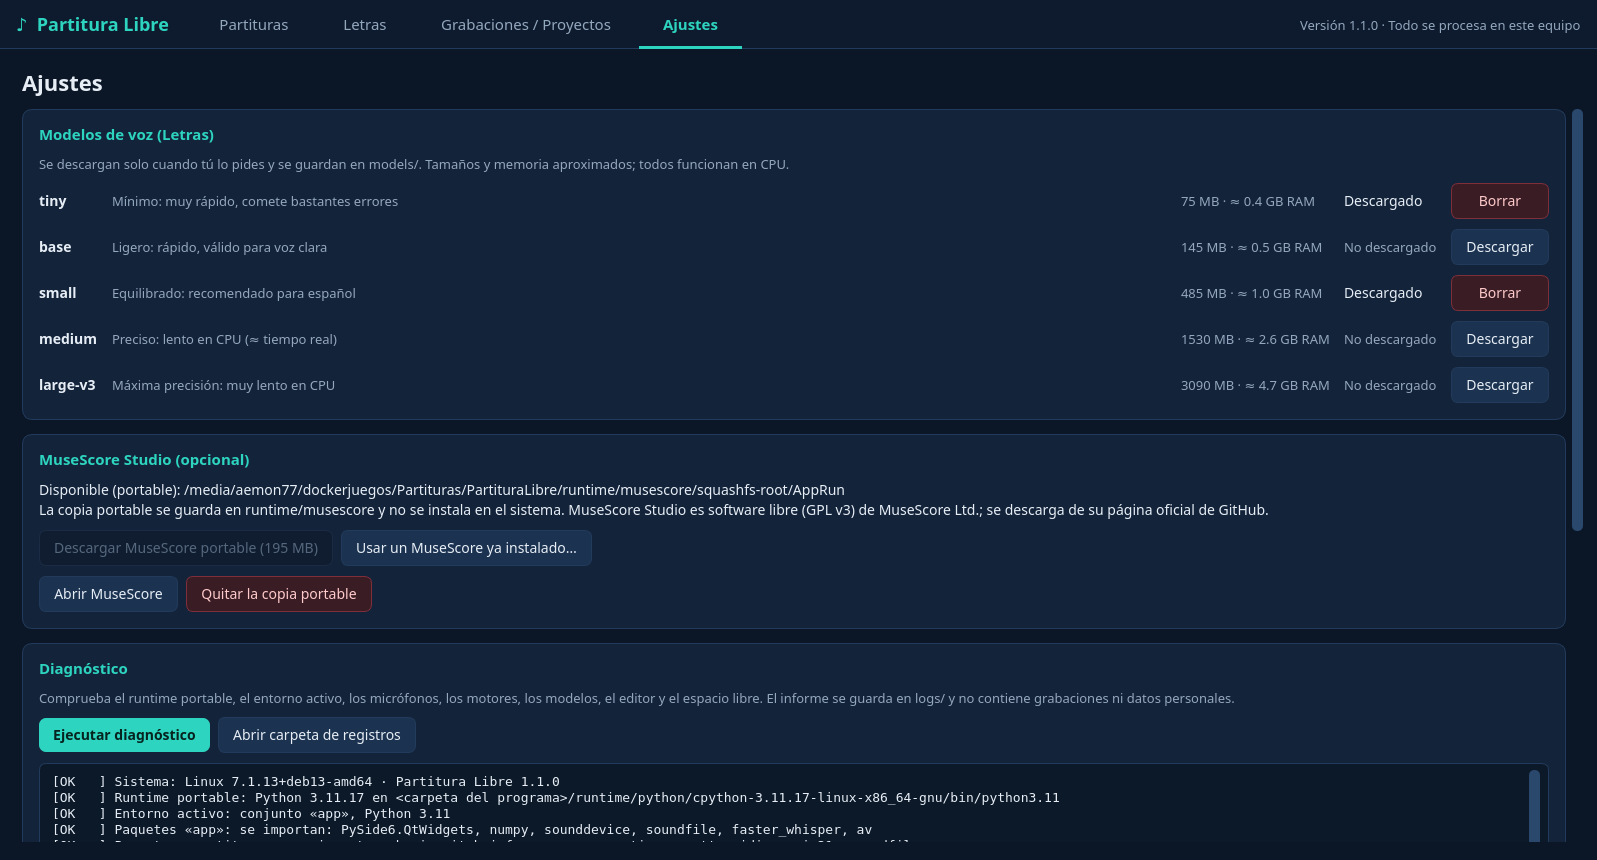
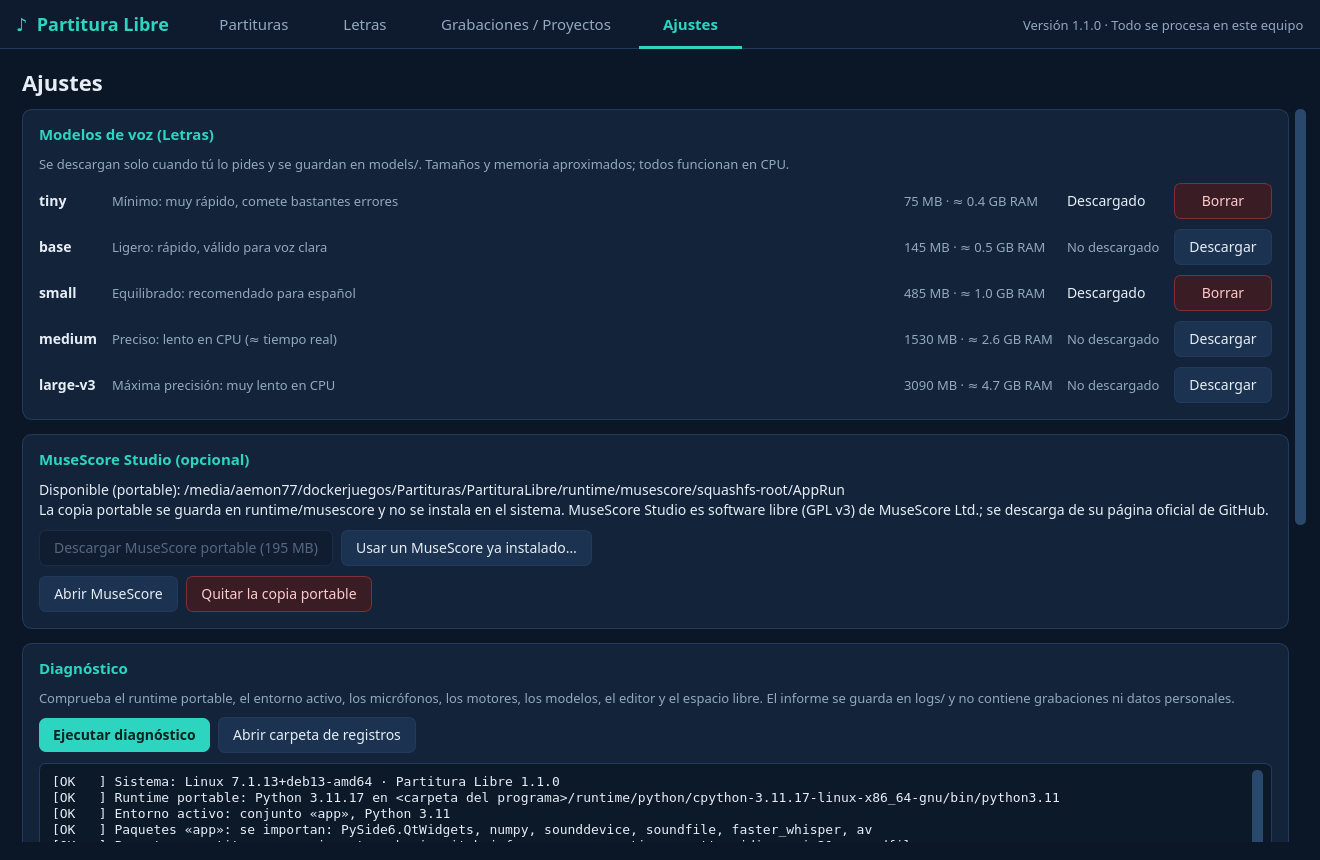
Ofrecer el sonido del equipo cuando suena audio y se va a grabar con micrófono; ventana más estrecha
Al pulsar Grabar con un micrófono mientras una aplicación reproduce sonido, la
app propone capturarlo directamente y cambia la entrada. Clave, nombres y zoom
pasan a la barra inferior: el ancho mínimo baja de 1478 a 1150 px.

diff --git a/app/partitura_libre/ui/captura.py b/app/partitura_libre/ui/captura.py
@@ -1,6 +1,7 @@
 """Panel de captura compartido por Partituras y Letras: micrófono, nivel y controles de grabación."""
 import math
 import shutil
+import time
 from datetime import datetime
 
 from PySide6.QtCore import Qt, QTimer, Signal
@@ -14,6 +15,7 @@ ESPACIO_MINIMO_MB = 200
 
 class PanelCaptura(QWidget):
     _avisado_flojo = False           # el diálogo de nivel bajo ya se mostró en esta sesión
+    _prefiere_micro = False          # el usuario ya dijo que quiere el micrófono aunque suene audio en el equipo
     terminada = Signal(object)       # carpeta del proyecto con la toma guardada
     segmento = Signal(object, float)  # (wav temporal, segundo de inicio) para transcripción en vivo
     estado = Signal()                 # cambió grabando/parado: las páginas ajustan sus botones
@@ -25,6 +27,7 @@ class PanelCaptura(QWidget):
         self.g = None           # Grabadora activa (toma real o prueba de nivel)
         self.proyecto = None    # carpeta del proyecto que se está grabando
         self._fin_prueba = 0
+        self._visto = (0.0, False)
 
         self.micro = QComboBox()
         self.micro.setSizeAdjustPolicy(QComboBox.AdjustToMinimumContentsLengthWithIcon)
@@ -118,8 +121,34 @@ class PanelCaptura(QWidget):
             self._decir("Se grabará lo que suene en este equipo, directamente y sin micrófono. Pon la música y pulsa «Grabar».")
             self._botones()
 
+    def _ofrecer_sistema(self):
+        """Si se va a grabar con un micrófono mientras suena audio en el equipo (un vídeo, Spotify…),
+        propone capturarlo directamente: por altavoces y micrófono llega flojo y con eco, y las voces
+        no se entienden. Devuelve False si el usuario cancela la grabación."""
+        if self._es_sistema() or self._indice_sistema() < 0 or PanelCaptura._prefiere_micro or not audio.suena_algo():
+            return True
+        r = tema.dialogo(self, "Está sonando audio en este equipo",
+                         "Ahora mismo hay una aplicación reproduciendo sonido y tienes elegido un micrófono.\n\n"
+                         "Si lo que quieres transcribir es eso que suena (un vídeo, una canción…), grábalo directamente: "
+                         "a través de los altavoces y el micrófono llega muy flojo y con el eco de la habitación, y las voces "
+                         "no se entienden aunque tú lo oigas bien.\n\n"
+                         "Si vas a hablar, cantar o tocar tú, sigue con el micrófono.",
+                         ("Cancelar", "Seguir con el micrófono", "Grabar el sonido del equipo"), "pregunta")
+        if r == "Grabar el sonido del equipo":
+            self.micro.setCurrentIndex(self._indice_sistema())
+        elif r == "Seguir con el micrófono":
+            PanelCaptura._prefiere_micro = True   # no volver a preguntar en esta sesión
+        return r in ("Grabar el sonido del equipo", "Seguir con el micrófono")
+
     def _es_sistema(self):
         return bool((self.micro.currentData() or {}).get("sistema"))
+
+    def _suena_en_equipo(self):
+        """¿Hay audio sonando en el equipo? Se consulta como mucho cada 2 s (pregunta al servidor de sonido)."""
+        ahora = time.monotonic()
+        if ahora - self._visto[0] > 2:
+            self._visto = (ahora, self._indice_sistema() >= 0 and audio.suena_algo())
+        return self._visto[1]
 
     def _micro(self):
         """(índice de dispositivo, fuente del servidor de sonido) del micrófono elegido."""
@@ -155,6 +184,8 @@ class PanelCaptura(QWidget):
     # -- grabación ------------------------------------------------------------
     def grabar(self):
         self._parar_prueba()
+        if not self._ofrecer_sistema():
+            return
         if self._es_sistema() and not audio.suena_algo() and not tema.confirmar(
                 self, "Ahora mismo no suena nada", "Has elegido grabar el sonido del equipo, pero ninguna aplicación está reproduciendo "
                 "audio en este momento.\n\nPon en marcha la música o el vídeo y vuelve a pulsar «Grabar». También puedes empezar ya "
@@ -232,9 +263,10 @@ class PanelCaptura(QWidget):
             if not PanelCaptura._avisado_flojo:   # el diálogo, solo la primera vez; después basta la línea de estado
                 PanelCaptura._avisado_flojo = True
                 tema.dialogo(self, "Nivel de grabación muy bajo", f"La toma se ha guardado, pero el sonido llegó muy flojo (pico del {g.pico * 100:.0f} %) "
-                         "y el reconocimiento puede fallar o salir vacío.\n\n• Acerca el micrófono a la fuente o sube el volumen de entrada del sistema.\n"
-                         "• Si lo que quieres transcribir suena en este equipo (Spotify, un vídeo…), no lo grabes con el micrófono: elige en "
-                             "«Entrada de audio» una opción «Sonido del equipo» y se capturará directamente, sin ruido ambiente.\n\n"
+                         "y el reconocimiento puede fallar o salir vacío, aunque tú lo oyeras bien.\n\n"
+                         "• Si lo que quieres transcribir suena en este equipo (un vídeo, Spotify…), no lo grabes con el micrófono: pulsa "
+                             "«Sonido del equipo» y se capturará directamente, sin altavoces, eco ni ruido ambiente.\n"
+                         "• Si eres tú quien habla, canta o toca, acerca el micrófono o sube su ganancia.\n\n"
                              "A partir de ahora lo verás mientras grabas: la barra de nivel se pone ámbar y aparece un aviso bajo el reloj. "
                              "Este mensaje no volverá a interrumpirte en esta sesión.", tipo="aviso")
         else:
@@ -270,6 +302,9 @@ class PanelCaptura(QWidget):
             if self._es_sistema():   # no hay micrófono que acercar: o no suena nada, o suena muy bajo
                 self._decir("No llega sonido del equipo: pon en marcha la música o el vídeo (y que no esté silenciado)." if g.pico < 0.001
                             else f"El equipo suena muy bajo (pico del {g.pico * 100:.0f} %): sube el volumen de la aplicación que reproduce.", "aviso")
+            elif self._suena_en_equipo():
+                self._decir("Al micrófono le llega muy poco y está sonando audio en este equipo: para grabarlo bien, "
+                            "detén y pulsa «Sonido del equipo».", "aviso")
             else:
                 self._decir(f"Nivel muy bajo (pico del {g.pico * 100:.0f} %): acerca el micrófono o sube su ganancia"
                             + (". No se guarda nada." if not self.grabando else "; así el reconocimiento puede fallar."), "aviso")

diff --git a/app/partitura_libre/ui/partituras.py b/app/partitura_libre/ui/partituras.py
@@ -165,9 +165,7 @@ class PaginaPartituras(QWidget):
         self.e_zoom = tema.etiqueta(f"{round(self.vista.zoom * 100)} %", "tenue", False)
         notas_barra = tema.herramientas(self.b_insertar, *self.b_fig.values(), self.b_puntillo, "|", self.b_sube, self.b_baja, self.b_octava_sube,
                                         self.b_octava_baja, self.b_antes, self.b_despues, "|",
-                                        self.b_anadir, self.b_borrar, "|", self.e_letra, None, self.clave, self.nombres, "|",
-                                        tema.boton("−", lambda: self._zoom(-10), ayuda="Reducir"), self.e_zoom,
-                                        tema.boton("+", lambda: self._zoom(10), ayuda="Ampliar"))
+                                        self.b_anadir, self.b_borrar, "|", self.e_letra, None)
 
         # -- panel derecho: lista de notas ----------------------------------------
         self.tabla = QTableWidget(0, 5)
@@ -194,8 +192,13 @@ class PaginaPartituras(QWidget):
 
         aviso = tema.etiqueta(partituras.AVISO_BREVE, "aviso", False)
         aviso.setToolTip(partituras.LIMITACIONES)
-        self.e_editor = tema.etiqueta("", "tenue", False)
-        pie = tema.herramientas(aviso, None, self.e_editor)
+        aviso.setMinimumWidth(120)            # puede recortarse en ventanas estrechas; el texto completo está en la ayuda
+        self.b_atajos = tema.boton("Atajos de teclado", lambda: tema.dialogo(self, "Atajos de teclado", ATAJOS),
+                                   ayuda="N introducir · 3-7 figura · A-G nota · 0 silencio · . puntillo · Ctrl+L letra…")
+        # clave, nombres y zoom van abajo, como en la barra de estado de un editor de partituras
+        pie = tema.herramientas(aviso, None, self.b_atajos, "|", self.clave, self.nombres, "|",
+                                tema.boton("−", lambda: self._zoom(-10), ayuda="Reducir"), self.e_zoom,
+                                tema.boton("+", lambda: self._zoom(10), ayuda="Ampliar"))
 
         cuerpo = QHBoxLayout()
         cuerpo.setContentsMargins(12, 12, 12, 8)
@@ -278,8 +281,6 @@ class PaginaPartituras(QWidget):
         self.b_existente.setEnabled(not analizando and not grabando)
         self.b_musescore.setVisible(bool(exe))       # opcional: solo aparece si hay un MuseScore disponible
         self.b_musescore.setEnabled(guardada)
-        self.e_editor.setText("N introducir · 3-7 figura · A-G nota · 0 silencio · . puntillo · ↑ ↓ altura · ← → nota · Ctrl+L letra · Supr · Ctrl+Z · Espacio")
-        self.e_editor.setToolTip(ATAJOS)
 
     def _pintar_destino(self):
         self.e_destino.setText(f"Se guardará en: {self.destino or rutas.PROYECTOS}"

diff --git a/tests/test_ui.py b/tests/test_ui.py
@@ -365,6 +365,41 @@ class Interfaz(Aislada):
         self.assertEqual(inicios, [0.0, 0.5, 1.0, 1.5, 2.5, 2.5])
         self.assertEqual(p.letra[2:4], ["ta", "re"])        # cada palabra sigue con su nota
 
+    def test_con_audio_sonando_se_ofrece_grabar_el_sonido_del_equipo_en_vez_del_microfono(self):
+        from partitura_libre import audio
+        from partitura_libre.ui.captura import PanelCaptura
+        panel = self.v.letras.captura
+        if panel._indice_sistema() < 0 or panel.micro.count() < 2:
+            self.skipTest("este equipo no ofrece la entrada «Sonido del equipo» junto a un micrófono")
+        original = audio.suena_algo
+        self.addCleanup(setattr, audio, "suena_algo", original)
+        PanelCaptura._prefiere_micro = False
+        respuesta = [""]
+        tema.dialogo = lambda padre, titulo, mensaje, botones=("Aceptar",), tipo="info": (self.dialogos.append((titulo, botones)), respuesta[0])[1]
+
+        panel.micro.setCurrentIndex(0)                  # un micrófono
+        audio.suena_algo = lambda: False
+        self.assertTrue(panel._ofrecer_sistema())       # no suena nada: no se pregunta
+        self.assertEqual(self.dialogos, [])
+
+        audio.suena_algo = lambda: True                 # suena un vídeo y se va a grabar con el micrófono
+        respuesta[0] = "Grabar el sonido del equipo"
+        self.assertTrue(panel._ofrecer_sistema())
+        self.assertEqual(self.dialogos[-1][0], "Está sonando audio en este equipo")
+        self.assertTrue(panel._es_sistema())            # la entrada cambia sola
+        self.assertTrue(panel._ofrecer_sistema())       # ya es la correcta: no vuelve a preguntar
+        self.assertEqual(len(self.dialogos), 1)
+
+        panel.micro.setCurrentIndex(0)
+        respuesta[0] = ""                               # cerrar el diálogo cancela la grabación
+        self.assertFalse(panel._ofrecer_sistema())
+        respuesta[0] = "Seguir con el micrófono"        # decisión respetada y recordada en la sesión
+        self.assertTrue(panel._ofrecer_sistema())
+        self.assertFalse(panel._es_sistema())
+        self.assertTrue(panel._ofrecer_sistema())
+        self.assertEqual(len(self.dialogos), 3)
+        PanelCaptura._prefiere_micro = False
+
     def test_fallo_del_analisis_se_explica_y_conserva_el_audio(self):
         p = self.v.partituras
         d = proyectos.crear("rota", "partitura")

diff --git a/docs/INFORME-PRUEBAS.md b/docs/INFORME-PRUEBAS.md
@@ -6,7 +6,7 @@ Equipo de pruebas: Debian 13 (trixie) x86_64 real, sesión Wayland con PipeWire,
 
 Cada prueba se clasifica como **superada**, **fallida** o **no ejecutable aquí**.
 
-## 1. Pruebas automatizadas — superadas (82 de 82, ninguna omitida)
+## 1. Pruebas automatizadas — superadas (83 de 83, ninguna omitida)
 
 Se ejecutan con `./herramientas/probar.sh`, siempre con el Python del paquete. Usan los motores reales, no simulacros.
 
@@ -19,7 +19,7 @@ Se ejecutan con `./herramientas/probar.sh`, siempre con el Python del paquete. U
 | `test_exportar` | 10 | SRT, VTT y LRC exactos; ida y vuelta; texto editado conserva tiempos; una línea nueva no recibe un tiempo inventado |
 | `test_rutas_proyectos` | 10 | Nombres con tildes y caracteres prohibidos; nombres únicos; audio asociado a resultados; toma interrumpida marcada y conservada; solo se borran proyectos |
 | `test_limpieza` | 4 | La desinstalación borra la carpeta del programa y nada más; se niega ante cualquier otra carpeta |
-| `test_ui` | 12 | La ventana real sin pantalla: navegación, botones bloqueados según el estado, partitura y letra de principio a fin, **partitura en vivo** (una melodía conocida entra por el callback de audio y sus notas aparecen antes de detener; al detener se crea la definitiva), error explicado, cancelación, diagnóstico |
+| `test_ui` | 13 | La ventana real sin pantalla: navegación, botones bloqueados según el estado, partitura y letra de principio a fin, **partitura en vivo** (una melodía conocida entra por el callback de audio y sus notas aparecen antes de detener; al detener se crea la definitiva), error explicado, cancelación, diagnóstico |
 
 ## 2. Instalación desde cero en Debian 13 — superada
 
@@ -116,6 +116,12 @@ Con la última toma de letra (pico del 13 %, señal apenas 3 dB sobre el ruido d
 ### «Sonido del equipo» elegía la salida equivocada (caso real) — corregido
 
 La lista ofrecía una entrada por cada salida de audio, y la del micrófono inalámbrico (que también tiene salida de auriculares) se confundía con el propio micrófono: al elegirla el nivel era 0 %. Ahora hay una única entrada que, al empezar, localiza la salida por la que está sonando algo (o la predeterminada si no suena nada), avisa antes de grabar si nada se está reproduciendo y da mensajes propios en vez de «acerca el micrófono». Verificado que se conecta a la salida correcta; **no ejecutable aquí** con música real, porque no sonaba nada durante la prueba.
+
+### Grabar con el micrófono lo que suena en el equipo (caso real, repetido) — la app ahora lo detecta
+
+El usuario grabó tres veces Spotify a través de altavoces y micrófono (pico del 3–5 %), convencido de que «el sonido estaba bien» porque él lo oía bien. Ahora, si al pulsar «Grabar» hay audio sonando en el equipo y la entrada elegida es un micrófono, la app pregunta si se quiere grabar directamente el sonido del equipo y cambia la entrada sola; si durante una toma con micrófono el nivel es bajo y hay audio sonando, lo dice en directo. **No ejecutable aquí:** el resultado con música real por la vía directa (en cada intento el audio estaba en pausa).
+
+También se corrigió que la ventana exigía 1478 px de ancho y se recortaba en una de 1418: clave, nombres y zoom pasan a la barra inferior y el mínimo queda en 1150 px.
 
 ### Micrófono con señal floja (caso real del usuario)
 

diff --git a/README.md b/README.md
@@ -59,7 +59,7 @@ Opcionales, solo cuando pulsas el botón correspondiente:
 
 La sección está organizada como un editor de partituras:
 
-- **Arriba, dos barras.** La de archivo: *Nueva*, *Abrir…*, *Guardar versión*, deshacer y rehacer, *▶ Oír*, *PDF…*, *MIDI…*, *MusicXML…*, *Carpeta* y los botones que muestran u ocultan los paneles laterales. La de notas: *✎ Introducir*, las cinco figuras (redonda a semicorchea), semitono y octava arriba o abajo, mover la nota antes o después, *+ Nota*, *Borrar*, la letra de la nota elegida, la clave, los nombres Do-Re-Mi y el zoom.
+- **Arriba, dos barras.** La de archivo: *Nueva*, *Abrir…*, *Guardar versión*, deshacer y rehacer, *▶ Oír*, *PDF…*, *MIDI…*, *MusicXML…*, *Carpeta* y los botones que muestran u ocultan los paneles laterales. La de notas: *✎ Introducir*, las cinco figuras (redonda a semicorchea) y el puntillo, semitono y octava arriba o abajo, mover la nota antes o después, *+ Nota*, *Borrar* y la letra de la nota elegida. Abajo, en la barra de estado: *Atajos de teclado*, la clave, los nombres Do-Re-Mi y el zoom.
 - **En el centro, la partitura** en una hoja: título, clave, compás de 4/4, barras y números de compás, figuras, silencios, nombres de nota y letra, repartida en sistemas según el ancho de la ventana.
 - **A la izquierda, el panel *Grabación*** (grabar o importar, y convertir en partitura). **A la derecha, la *Lista de notas*** con los valores exactos.
 
